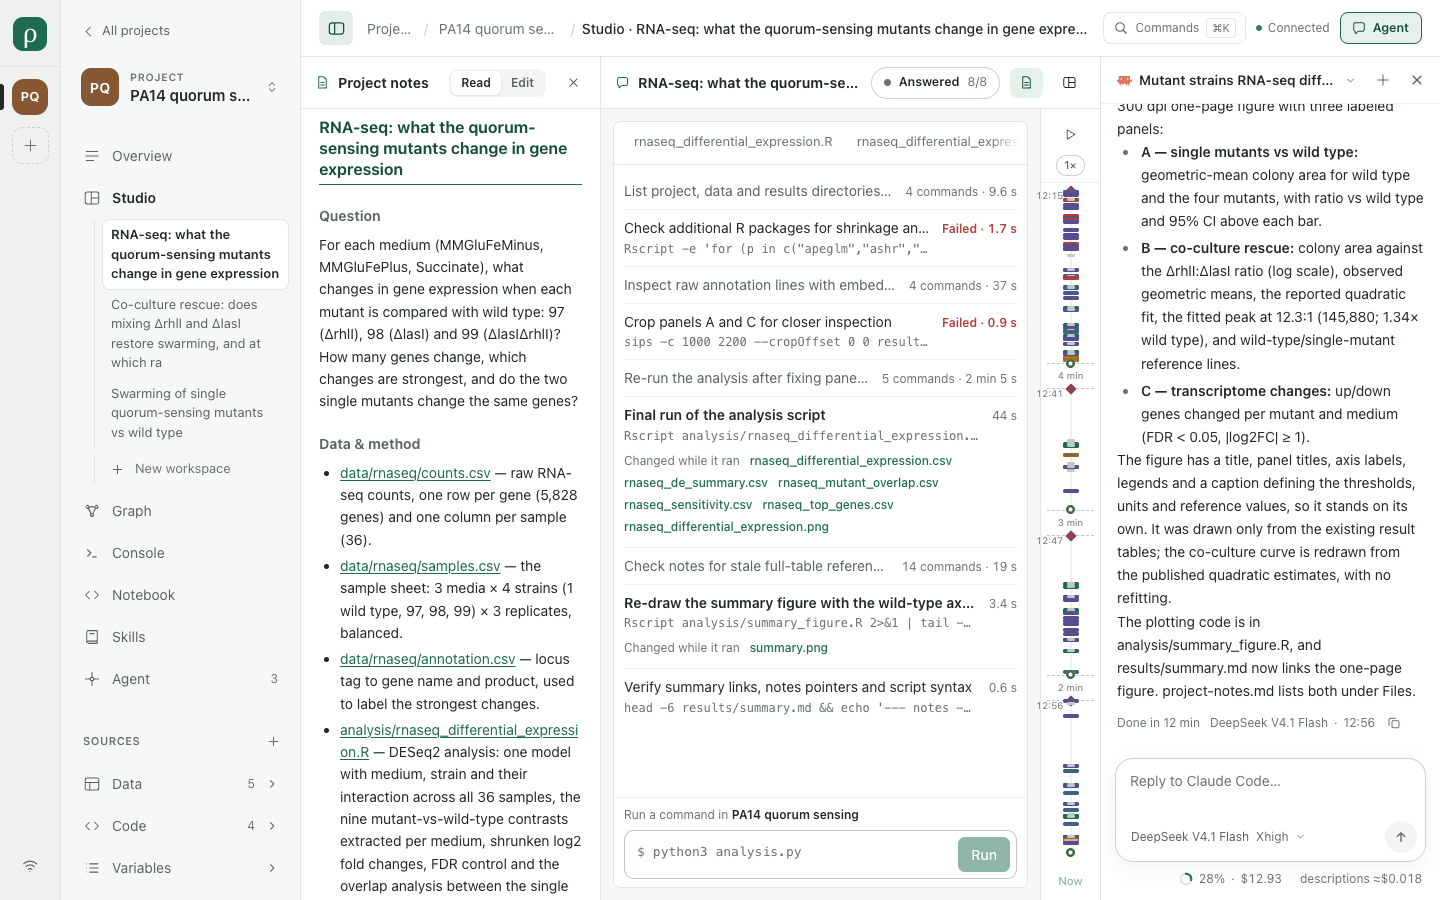
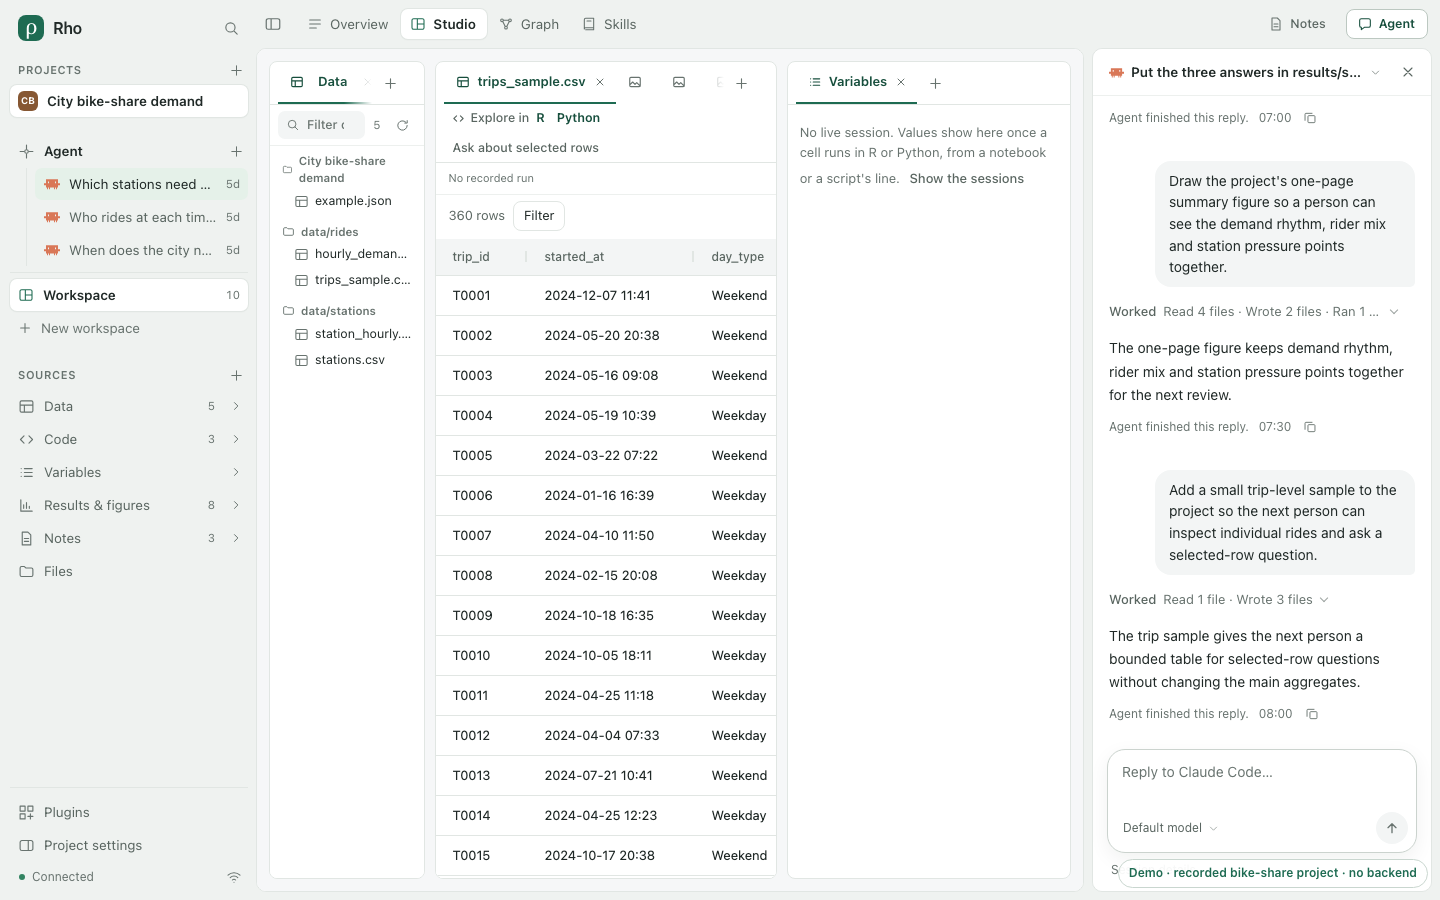
site: refresh docs home example visuals

diff --git a/site/.vitepress/theme/Home.vue b/site/.vitepress/theme/Home.vue
@@ -105,10 +105,10 @@ const verified = [
         :src="shot('studio.png')"
         width="1440"
         height="900"
-        alt="Rho Studio showing the PA14 quorum sensing project: project notes, the Agent's command list with one failed command, its answer, and a reply box."
+        alt="Rho Studio showing the City bike-share demand project: project notes, the Agent's command list, its answer, and a reply box."
       />
       <figcaption>
-        <span class="tag">Studio</span> A real run on the bundled PA14 quorum sensing project. The
+        <span class="tag">Studio</span> A real run on the bundled City bike-share demand project. The
         Agent's commands, one failure among them, its answer, and the notes left for the next
         question.
       </figcaption>
@@ -194,15 +194,15 @@ const verified = [
       </div>
       <figure class="frame side">
         <img
-          :src="shot('notebook.png')"
+          :src="shot('code.png')"
           width="1440"
           height="900"
           loading="lazy"
-          alt="Rho Notebook with R cells, their output and figures inside the same project workspace."
+          alt="Rho Code showing the bike-share analysis script and its project files inside the same workspace."
         />
         <figcaption>
-          <span class="tag">Notebook</span> R cells and their figures in the project, not in a
-          separate session.
+          <span class="tag">Code</span> The analysis script and its project files in one place,
+          ready for the next question.
         </figcaption>
       </figure>
     </section>
